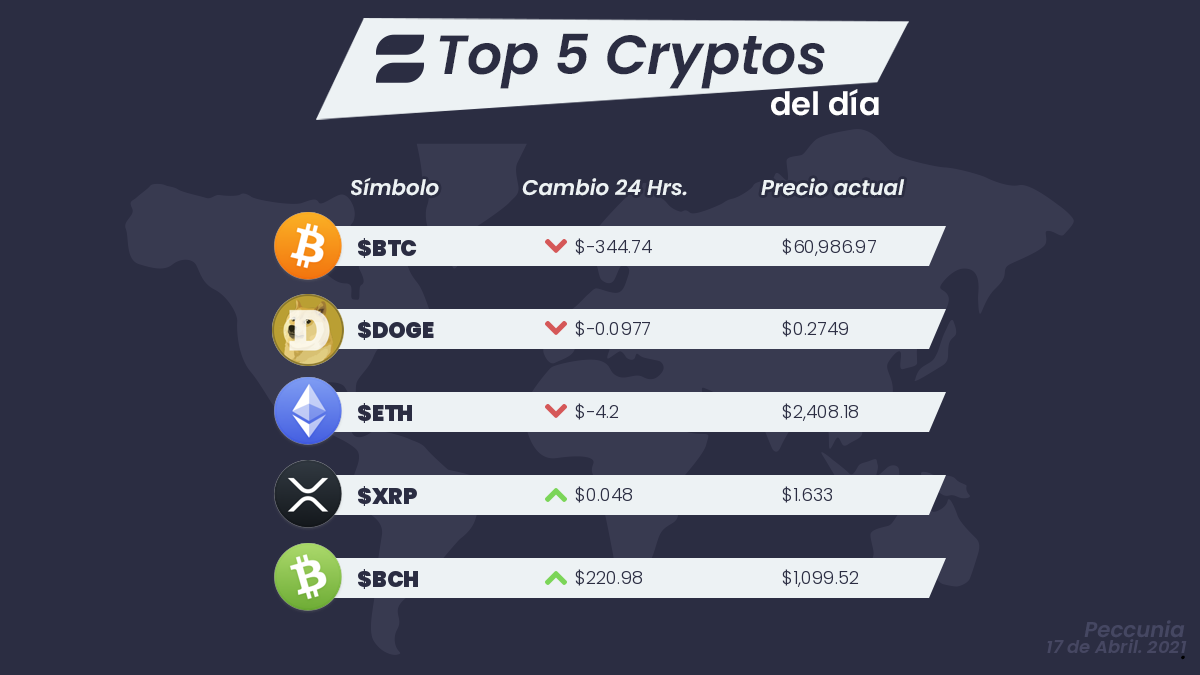
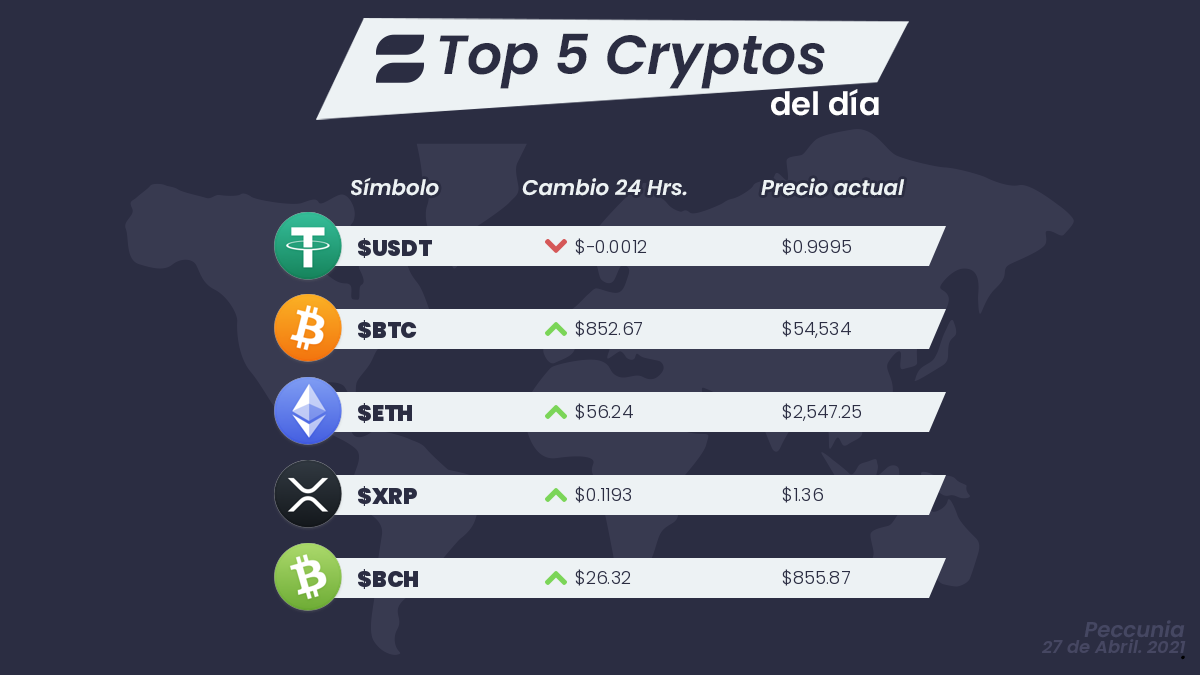
Update API to CoinGecko

diff --git a/twitter/main.py b/twitter/main.py
@@ -5,7 +5,7 @@ import locale
 import calendar
 from typing import Final
 
-NUMBER_OF_COINS: Final = 5
+NUMBER_OF_COINS: Final = 6
 FIAT_COIN: Final = "USD"
 CURRENT: Final = "daily"
 MAX_DECIMALS: Final = 4
@@ -15,7 +15,7 @@ TEMPLATE: Final = {
         'image': 'top-cryptos-template.png',
         'date': (70, 71, 98),
         'text': (43, 45, 66),
-        'api': f"https://min-api.cryptocompare.com/data/top/totalvolfull?limit=10&tsym={FIAT_COIN}"
+        'api': f"https://api.coingecko.com/api/v3/coins/markets?vs_currency={FIAT_COIN.lower()}&order=volume_desc&per_page=6&page=1&sparkline=false&price_change_percentage=24h"
     },
     'weekly': {
         'image': 'top-cryptos-template-weekly.png',
@@ -68,18 +68,18 @@ def get_date_text():
 
 
 def get_data():
-    response = requests.get(TEMPLATE[CURRENT]['api'],
[1 lines of base64/hex data omitted]
+    response = requests.get(TEMPLATE[CURRENT]['api'])
     json_response = response.json()
     coin_info = list()
 
     for i in range(NUMBER_OF_COINS):
-        coin_info.append({
-            'symbol': json_response['Data'][i]['CoinInfo']['Name'],
-            'price': f"{round(json_response['Data'][i]['RAW'][FIAT_COIN]['PRICE'], MAX_DECIMALS):,}",
-            'change24hr': f"{round(json_response['Data'][i]['RAW'][FIAT_COIN]['CHANGE24HOUR'], MAX_DECIMALS):,}",
-            'mktcap': f"{round(json_response['Data'][i]['RAW'][FIAT_COIN]['MKTCAP'], MAX_DECIMALS):,}"
-        })
+        if json_response[i]['symbol'] != "etlt":
+            coin_info.append({
+                'symbol': json_response[i]['symbol'].upper(),
+                'price': f"{round(json_response[i]['current_price'], MAX_DECIMALS):,}",
+                'change24hr': f"{round(json_response[i]['price_change_24h'], MAX_DECIMALS):,}",
+                'mktcap': f"{round(json_response[i]['market_cap_change_24h'], MAX_DECIMALS):,}"
+            })
     return coin_info
 
 
